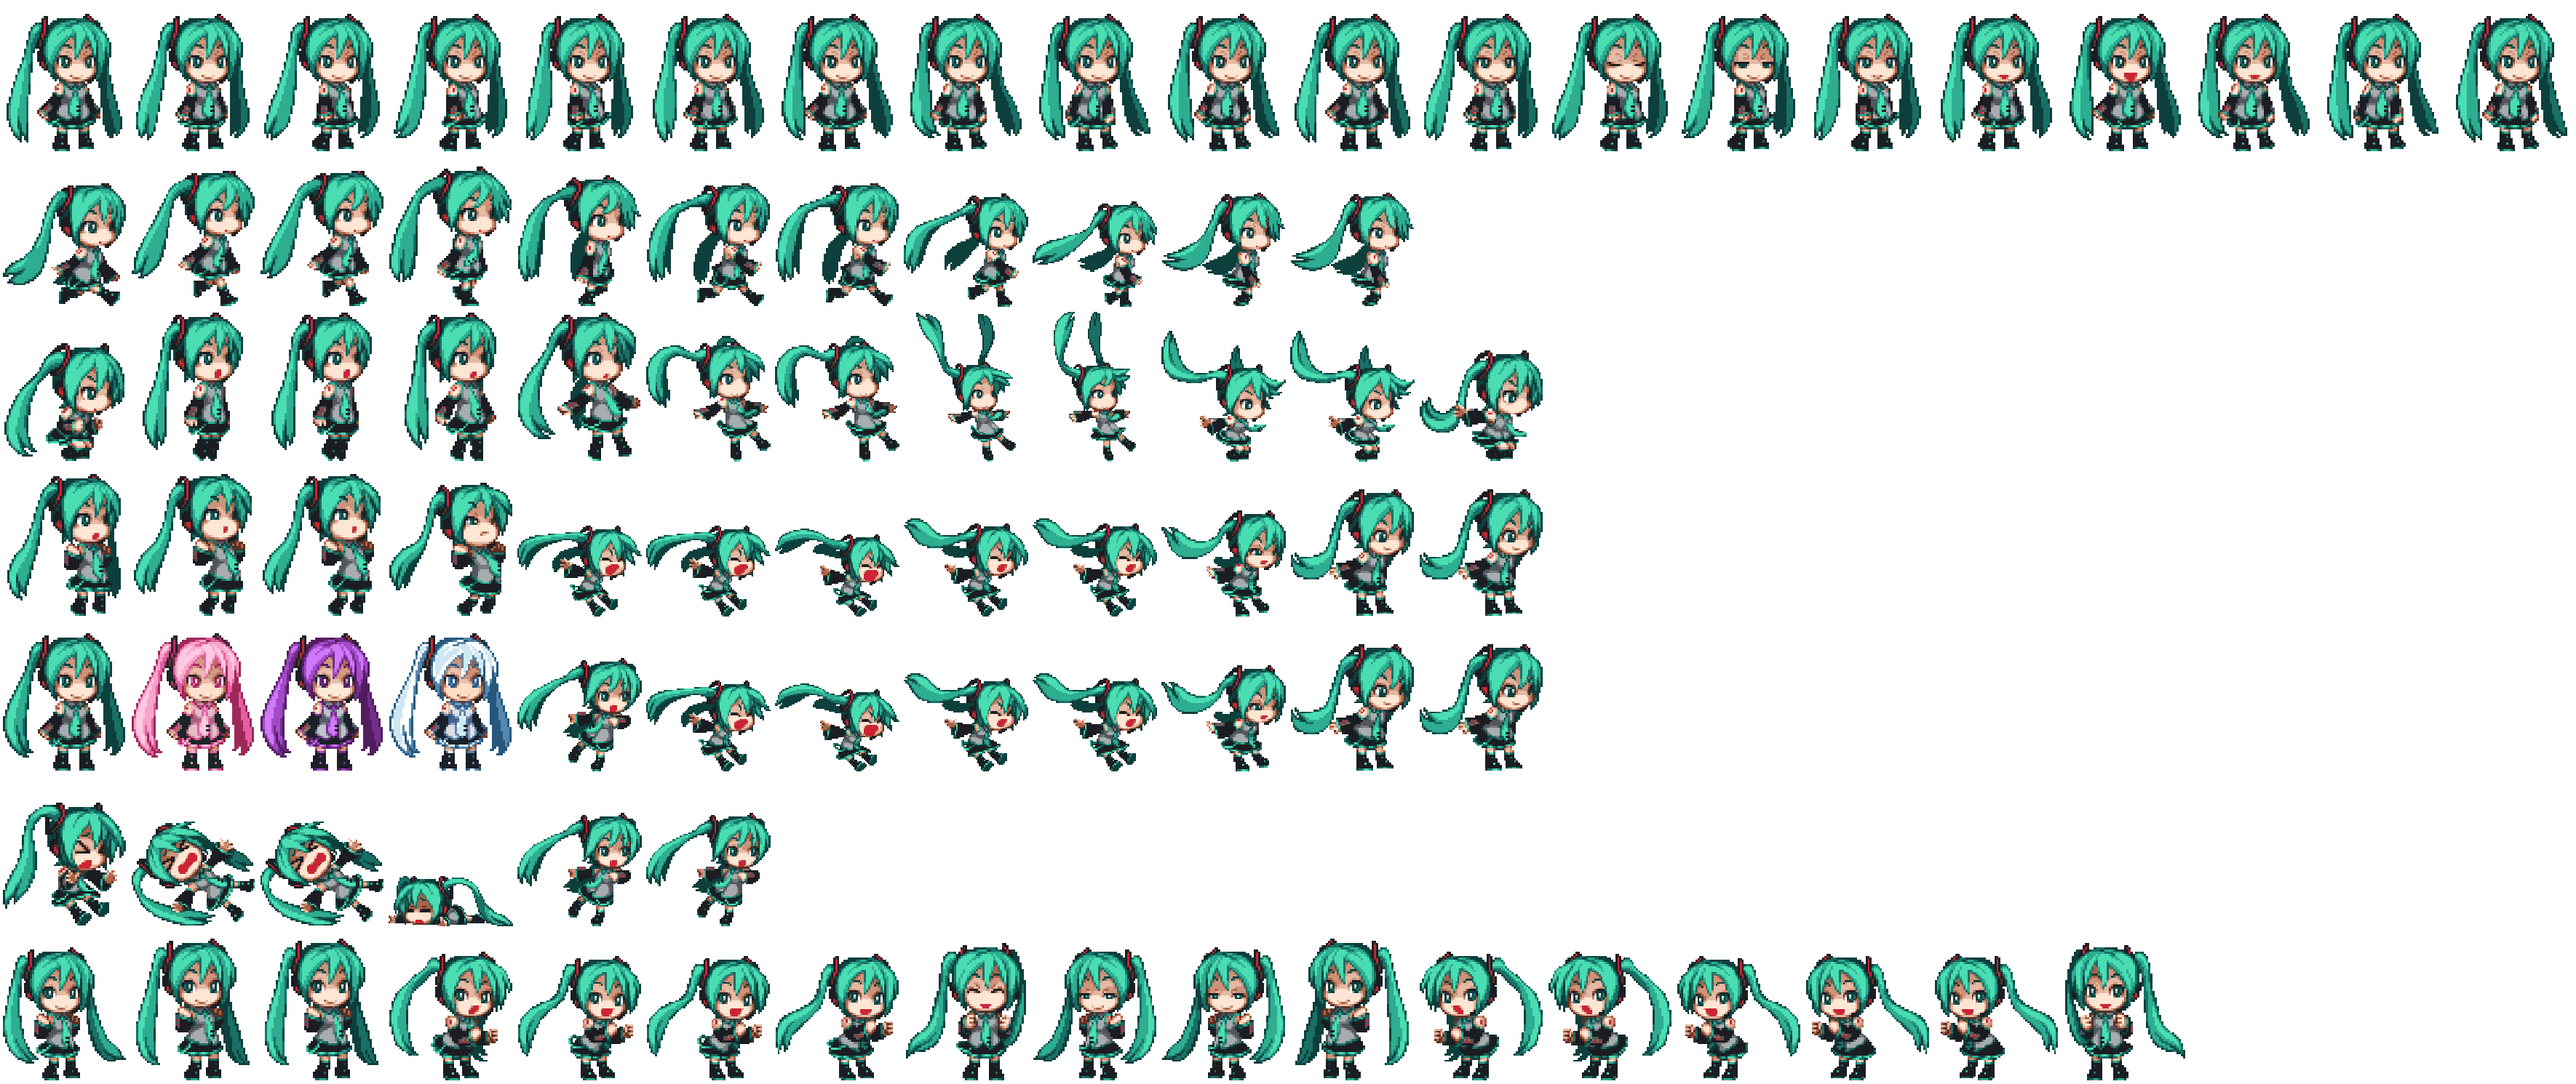
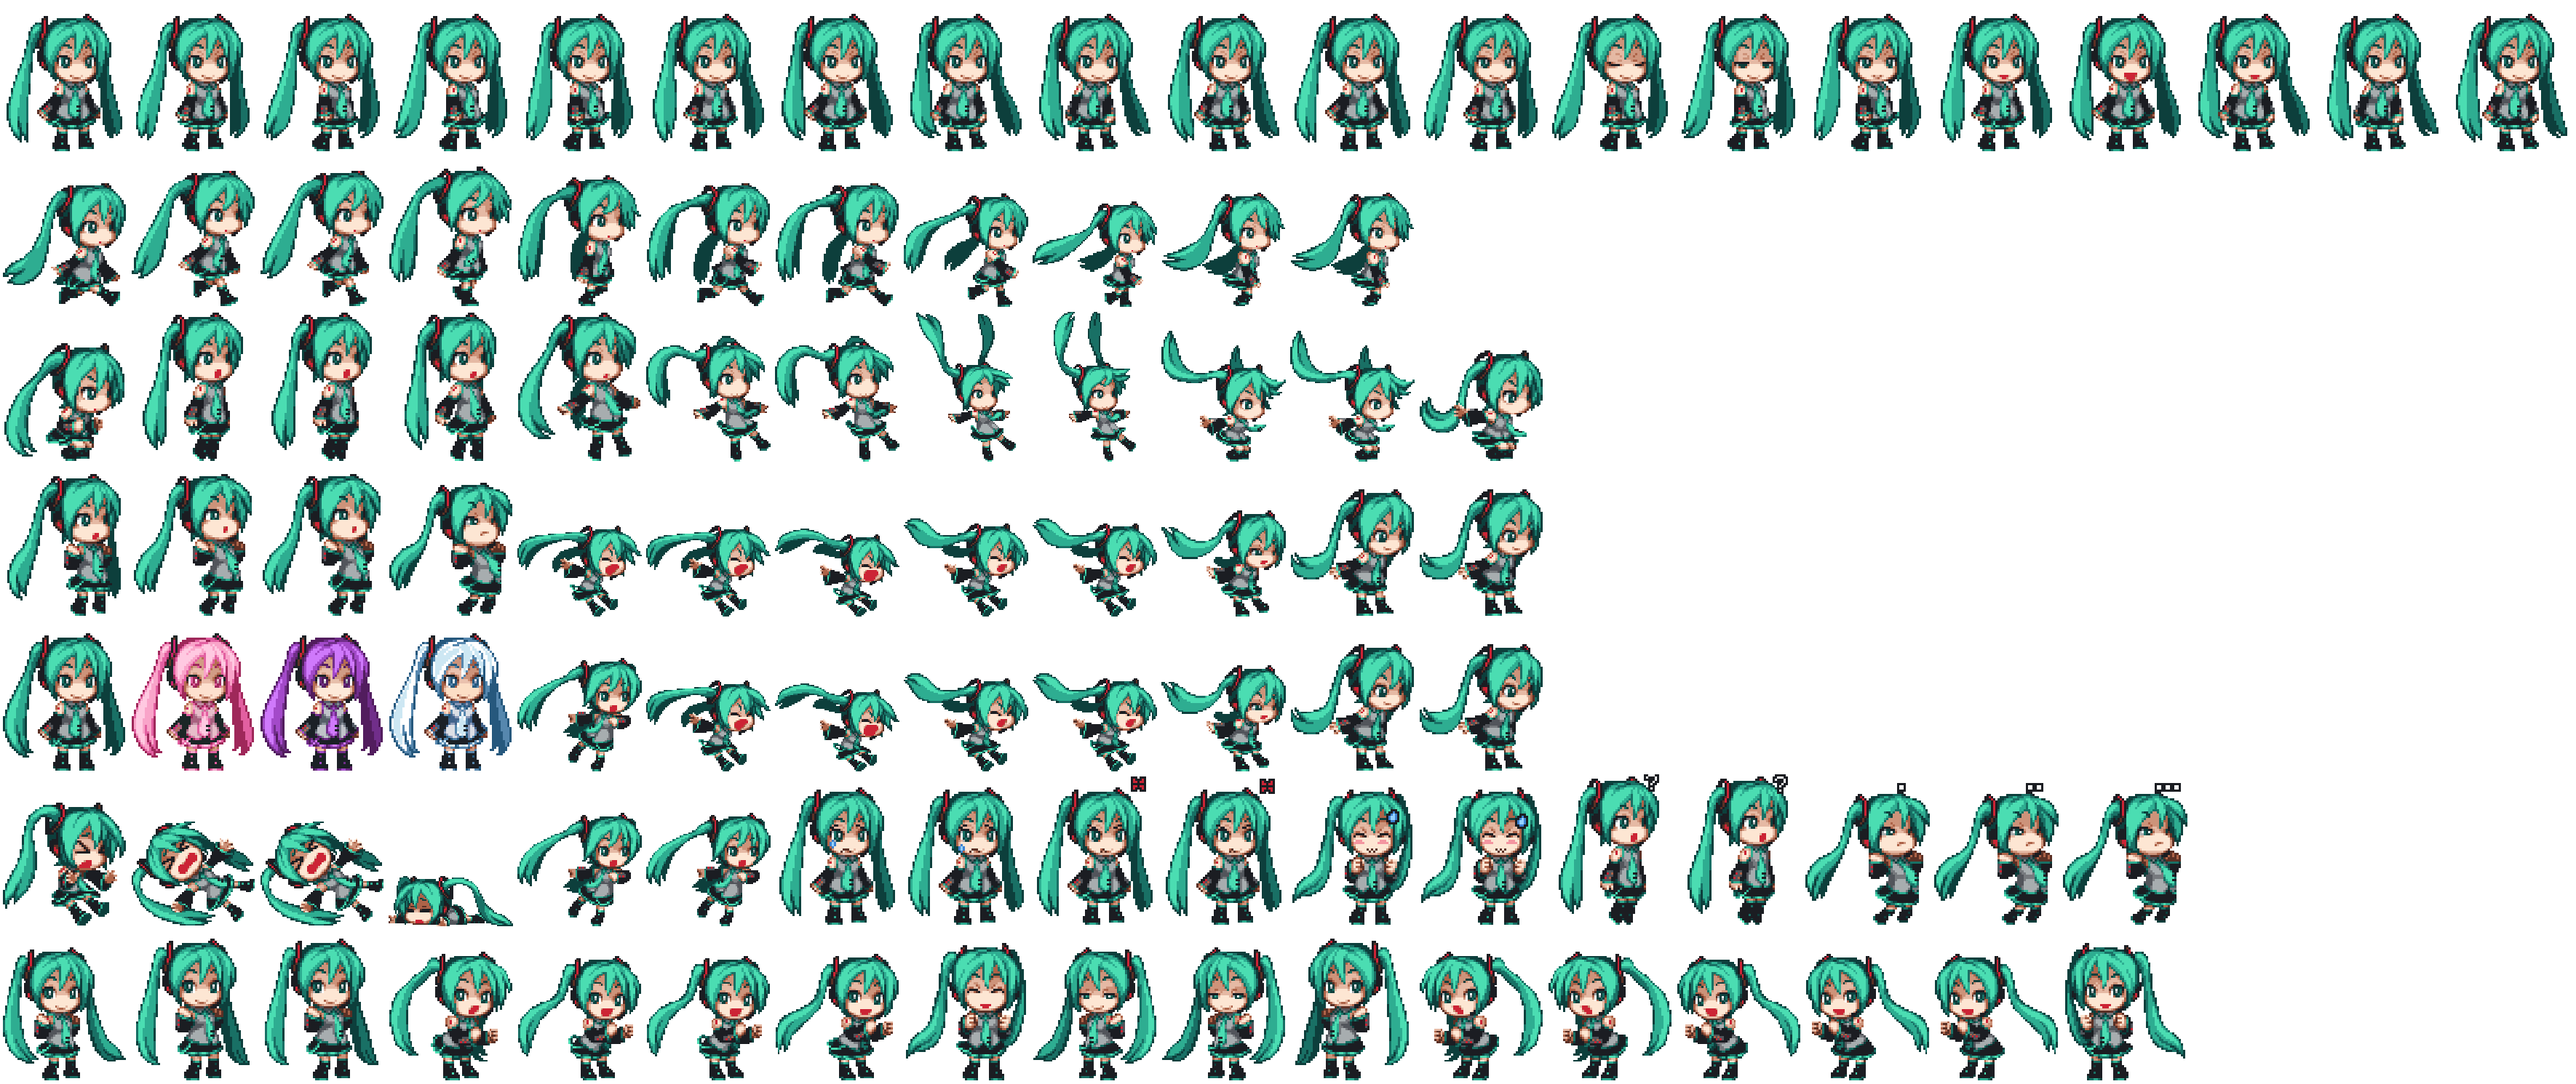
feat: Miku sprite frames for sad, annoyed, embarrassed, confused, thinking
Five of the eight emotions borrowed frames from other animations that
show a different feeling: sad used dance frames with a smile, annoyed
the "hurt" knockback pose, embarrassed a happy celebrate pose, confused
a jump frame, and thinking had a single frame.

tools/make_emote_frames.py builds 11 new frames from Miku's own frames
by editing a few face pixels (eyebrows, mouth, blush) and adding small
emote marks (tear, anger mark, sweat drop, "?", "..."), and writes them
into the empty cells 106-116 of the sheet. Original frames are not
touched and the script can be re-run (--preview renders without writing).

- sad 106-107: worried brows, frown, tear sliding down
- annoyed 108-109: angry brows, pout, bobbing anger mark
- embarrassed 110-111: blush, wavy mouth, sliding sweat drop
- confused 112-113: "o" mouth with a bobbing "?"
- thinking 114-116: "." -> ".." -> "..."

config.MIKU_EMOTION_FRAMES points at the new frames. New tests check
that the sheet matches the generator output and that config uses it.
README notes that the new frames share the sheet's unrecorded origin.

pytest: 184 passed. Checked in the GUI: a sad message shows the new
sad frame.

Changed region(s): [[0.2797, 0.7096, 0.8701, 0.8638]]

diff --git a/tools/make_emote_frames.py b/tools/make_emote_frames.py
@@ -1,0 +1,177 @@
+"""
+Buat frame emosi Miku yang belum punya gambar sendiri (sad, annoyed, embarrassed,
+confused, thinking) dari frame yang sudah ada di sprite sheet: ekspresi wajah diubah
+beberapa piksel, lalu diberi tanda emote (air mata, 💢, ?, ..., keringat, rona pipi).
+
+Hasilnya ditulis ke sel kosong di sheet (baris 6, indeks NEW_CELLS). Frame dasar
+tidak diubah, jadi script ini aman dijalankan ulang.
+
+    python tools/make_emote_frames.py --preview preview.png   # lihat dulu, sheet tidak diubah
+    python tools/make_emote_frames.py                         # tulis ke sheet
+
+Satuan koordinat: "piksel seni". Sheet di-upscale 3x, jadi frame 177x213 = 59x71 piksel seni.
+"""
+
+import argparse
+import sys
+from pathlib import Path
+
+from PIL import Image, ImageDraw
+
+ROOT = Path(__file__).resolve().parent.parent
+SHEET = ROOT / "assets" / "avatar" / "miku_smart_sheet.png"
+FRAME_W, FRAME_H, COLS, SCALE = 177, 213, 20, 3
+
+# Warna dari palet sheet, ditambah biru air mata dan merah muda rona pipi
+DARK = (27, 29, 34, 255)
+BROWN = (91, 48, 37, 255)
+RED = (204, 36, 53, 255)
+WHITE = (255, 255, 255, 255)
+SKIN = (253, 230, 211, 255)
+TEAR = (150, 210, 255, 255)
+TEAR_EDGE = (60, 130, 210, 255)
+BLUSH = (244, 150, 160, 255)
+
+# Pola piksel: huruf -> warna, "." = tidak digambar
+PATTERNS = {
+    "frown": ([".BBB.",
+               "B...B"], {"B": BROWN}),
+    "pout": ([".B.",
+              "B.B"], {"B": BROWN}),
+    "brow_sad_l": (["..DD",
+                    "DD.."], {"D": DARK}),
+    "brow_sad_r": (["DD..",
+                    "..DD"], {"D": DARK}),
+    "brow_angry_l": (["DD..",
+                      "..DD"], {"D": DARK}),
+    "brow_angry_r": (["..DD",
+                      "DD.."], {"D": DARK}),
+    "tear": ([".E.",
+              "ELE",
+              "ELE",
+              ".E."], {"E": TEAR_EDGE, "L": TEAR}),
+    "sweat": (["..E.",
+               ".ELE",
+               "ELLE",
+               "ELLE",
+               ".EE."], {"E": TEAR_EDGE, "L": TEAR}),
+    "blush": ([".PPP.",
+               "PPPPP"], {"P": BLUSH}),
+    # Menutup senyum lebar frame 127 (merah di x 36-40 / 37-39) dengan warna kulit
+    "smile_erase": (["SSSSS",
+                     ".SSS."], {"S": SKIN}),
+    "wavy_mouth": (["B.B.B",
+                    ".B.B."], {"B": BROWN}),
+    "anger": (["R...R",
+               "RR.RR",
+               ".....",
+               "RR.RR",
+               "R...R"], {"R": RED}),
+    "question": ([".WWW.",
+                  "W...W",
+                  "....W",
+                  "...W.",
+                  "..W..",
+                  ".....",
+                  "..W.."], {"W": WHITE}),
+    "dot": (["WW",
+             "WW"], {"W": WHITE}),
+}
+
+# Tanda di luar wajah diberi garis tepi gelap supaya terbaca di latar apa pun
+OUTLINED = {"question", "dot", "anger", "sweat"}
+
+# Frame baru: (nama emosi, frame dasar, [(pola, x, y), ...])
+NEW_FRAMES = [
+    ("sad", 0, [("brow_sad_l", 26, 23), ("brow_sad_r", 38, 23), ("frown", 31, 34), ("tear", 26, 30)]),
+    ("sad", 0, [("brow_sad_l", 26, 23), ("brow_sad_r", 38, 23), ("frown", 31, 34), ("tear", 26, 32)]),
+    ("annoyed", 0, [("brow_angry_l", 26, 23), ("brow_angry_r", 38, 23), ("pout", 32, 34), ("anger", 47, 2)]),
+    ("annoyed", 0, [("brow_angry_l", 26, 23), ("brow_angry_r", 38, 23), ("pout", 32, 34), ("anger", 47, 3)]),
+    ("embarrassed", 127, [("smile_erase", 36, 34), ("wavy_mouth", 36, 34),
+                          ("blush", 30, 30), ("blush", 41, 30), ("sweat", 46, 17)]),
+    ("embarrassed", 127, [("smile_erase", 36, 34), ("wavy_mouth", 36, 34),
+                          ("blush", 30, 30), ("blush", 41, 30), ("sweat", 46, 19)]),
+    ("confused", 41, [("question", 46, 0)]),
+    ("confused", 41, [("question", 46, 1)]),
+    ("thinking", 63, [("dot", 44, 5)]),
+    ("thinking", 63, [("dot", 44, 5), ("dot", 48, 5)]),
+    ("thinking", 63, [("dot", 44, 5), ("dot", 48, 5), ("dot", 52, 5)]),
+]
+# Sel kosong di baris 6 sheet (106-119 kosong)
+NEW_CELLS = list(range(106, 106 + len(NEW_FRAMES)))
+
+
+def emotion_frames() -> dict:
+    """Peta emosi -> indeks frame baru, untuk MIKU_EMOTION_FRAMES di config.py."""
+    result: dict = {}
+    for (name, _, _), cell in zip(NEW_FRAMES, NEW_CELLS):
+        result.setdefault(name, []).append(cell)
+    return result
+
+
+def _cell_box(index: int):
+    row, col = divmod(index, COLS)
+    return (col * FRAME_W, row * FRAME_H, (col + 1) * FRAME_W, (row + 1) * FRAME_H)
+
+
+def _stamp(art: Image.Image, name: str, x: int, y: int):
+    rows, colors = PATTERNS[name]
+    pixels = {(x + dx, y + dy): colors[ch]
+              for dy, line in enumerate(rows) for dx, ch in enumerate(line) if ch != "."}
+    px = art.load()
+    if name in OUTLINED:
+        for (sx, sy) in pixels:
+            for nx in range(sx - 1, sx + 2):
+                for ny in range(sy - 1, sy + 2):
+                    if (nx, ny) not in pixels and 0 <= nx < art.width and 0 <= ny < art.height:
+                        px[nx, ny] = DARK
+    for (sx, sy), color in pixels.items():
+        if 0 <= sx < art.width and 0 <= sy < art.height:
+            px[sx, sy] = color
+
+
+def build_frames(sheet: Image.Image) -> list:
+    frames = []
+    for _, base, stamps in NEW_FRAMES:
+        art = sheet.crop(_cell_box(base)).resize((FRAME_W // SCALE, FRAME_H // SCALE), Image.NEAREST)
+        for name, x, y in stamps:
+            _stamp(art, name, x, y)
+        frames.append(art.resize((FRAME_W, FRAME_H), Image.NEAREST))
+    return frames
+
+
+def write_preview(frames: list, out: Path):
+    zoom = 2
+    labels = [name for name, _, _ in NEW_FRAMES]
+    img = Image.new("RGB", (len(frames) * FRAME_W * zoom, FRAME_H * zoom + 24), (43, 43, 43))
+    draw = ImageDraw.Draw(img)
+    for k, (frame, label, cell) in enumerate(zip(frames, labels, NEW_CELLS)):
+        big = frame.resize((FRAME_W * zoom, FRAME_H * zoom), Image.NEAREST)
+        img.paste(big, (k * FRAME_W * zoom, 24), big)
+        draw.text((k * FRAME_W * zoom + 6, 6), f"{label} #{cell}", fill=(255, 255, 0))
+    img.save(out)
+
+
+def main() -> int:
+    parser = argparse.ArgumentParser(description=__doc__, formatter_class=argparse.RawDescriptionHelpFormatter)
+    parser.add_argument("--preview", type=Path, help="tulis gambar pratinjau, sheet tidak diubah")
+    args = parser.parse_args()
+
+    sheet = Image.open(SHEET).convert("RGBA")
+    frames = build_frames(sheet)
+    if args.preview:
+        write_preview(frames, args.preview)
+        print(f"Pratinjau: {args.preview}")
+        return 0
+
+    for frame, cell in zip(frames, NEW_CELLS):
+        box = _cell_box(cell)
+        sheet.paste(Image.new("RGBA", frame.size, (0, 0, 0, 0)), box)
+        sheet.paste(frame, box)
+    sheet.save(SHEET, optimize=True)
+    print(f"{len(frames)} frame ditulis ke {SHEET.name}: {emotion_frames()}")
+    return 0
+
+
+if __name__ == "__main__":
+    sys.exit(main())

diff --git a/tests/test_sprite_frames.py b/tests/test_sprite_frames.py
@@ -61,3 +61,29 @@ def test_every_emotion_maps_to_existing_animation():
     for emotion, animation in EMOTION_ANIMATIONS.items():
         assert animation in ANIMATIONS, f"{emotion} -> {animation}"
     assert set(config.MIKU_EMOTION_FRAMES) <= set(EMOTION_ANIMATIONS)
+
+
+# ── Frame emosi buatan tools/make_emote_frames.py ──
+
+sys.path.insert(0, str(ROOT / "tools"))
+import make_emote_frames  # noqa: E402
+
+
+def test_generated_emotions_are_used_by_config():
+    for emotion, frames in make_emote_frames.emotion_frames().items():
+        assert config.MIKU_EMOTION_FRAMES[emotion] == frames
+
+
+def test_sheet_matches_generator(sheet):
+    # Sheet dan script harus sejalan: ubah polanya di script, lalu jalankan ulang script
+    for frame, cell in zip(make_emote_frames.build_frames(sheet), make_emote_frames.NEW_CELLS):
+        row, col = divmod(cell, config.MIKU_SHEET_COLS)
+        box = (col * config.MIKU_FRAME_W, row * config.MIKU_FRAME_H,
+               (col + 1) * config.MIKU_FRAME_W, (row + 1) * config.MIKU_FRAME_H)
+        assert sheet.crop(box).tobytes() == frame.convert("RGBA").tobytes(), f"frame {cell}"
+
+
+def test_generator_only_uses_empty_cells_and_real_base_frames():
+    original_frames = {base for _, base, _ in make_emote_frames.NEW_FRAMES}
+    assert not original_frames & set(make_emote_frames.NEW_CELLS)
+    assert len(set(make_emote_frames.NEW_CELLS)) == len(make_emote_frames.NEW_FRAMES)

diff --git a/config.py b/config.py
@@ -33,15 +33,17 @@ MIKU_FRAME_H = 213
 MIKU_SHEET_COLS = 20
 
 # Frame per emosi, dipakai GUI dan avatar window. Semua indeks berisi gambar.
+# 106-116 dibuat oleh tools/make_emote_frames.py dari frame asli (sheet belum punya
+# gambar sedih, kesal, malu, bingung, atau berpikir yang beranimasi).
 MIKU_EMOTION_FRAMES: Dict[str, List[int]] = {
     "neutral": [0, 1, 2, 3, 4],
     "happy": [123, 124, 125, 126],
     "excited": [131, 132, 133, 134, 135],
-    "thinking": [63],
-    "confused": [41, 42, 43],
-    "sad": [128, 129],
-    "embarrassed": [127],
-    "annoyed": [100],
+    "thinking": [114, 115, 116],
+    "confused": [112, 113],
+    "sad": [106, 107],
+    "embarrassed": [110, 111],
+    "annoyed": [108, 109],
 }
 
 # RVC model directory (shared across versions)

diff --git a/core/avatar_window.py b/core/avatar_window.py
@@ -39,8 +39,9 @@ FUCHSIA = (255, 0, 128)
 ALPHA_THR = 80
 
 # Animation sequences (frame indices from sprite sheet).
-# Hanya frame yang berisi gambar; sel 31-39, 52-59, 72-79, 92-99, 106-119
-# kosong sehingga avatar akan menghilang jika dirujuk.
+# Hanya frame yang berisi gambar; sel 31-39, 52-59, 72-79, 92-99, 117-119
+# kosong sehingga avatar akan menghilang jika dirujuk (106-116: frame emosi buatan
+# tools/make_emote_frames.py).
 ANIMATIONS: Dict[str, List[int]] = {
     "idle_front": [0, 1, 2, 3, 4],
     "idle_side_r": [5, 6, 7, 8],

diff --git a/README.md b/README.md
@@ -316,7 +316,7 @@ Catatan aset (bukan nasihat hukum; dicek 25 Oktober 2026):
 | Aset | Status | Catatan |
 |---|---|---|
 | Karakter Hatsune Miku | [Piapro Character License](https://piapro.net/license) (PCL) atau CC BY-NC 3.0 untuk ilustrasi resmi Crypton | Hanya untuk penggunaan **non-komersial** (tanpa tujuan bisnis dan tanpa menerima bayaran). Penggunaan komersial butuh izin Crypton. Dilarang memakai karakter dalam konteks yang merusak nama baiknya (misalnya terlalu kasar atau seksual) |
-| Sprite maskot `assets/avatar/miku_smart_sheet.png` (juga `docs/images/`) | **Asal belum tercatat** | Masuk sejak commit pertama tanpa keterangan pembuat. Sprite turunan karakter tetap tunduk pada PCL, dan bila dibuat orang lain, hak ciptanya milik pembuatnya. Pembuat dan izinnya perlu dicatat di sini |
+| Sprite maskot `assets/avatar/miku_smart_sheet.png` (juga `docs/images/`) | **Asal belum tercatat** | Masuk sejak commit pertama tanpa keterangan pembuat. Sprite turunan karakter tetap tunduk pada PCL, dan bila dibuat orang lain, hak ciptanya milik pembuatnya. Pembuat dan izinnya perlu dicatat di sini. Frame 106-116 (sedih, kesal, malu, bingung, berpikir) adalah suntingan frame asli oleh `tools/make_emote_frames.py`, jadi asal-usulnya sama dengan sheet ini |
 | Model suara RVC | Tidak disertakan; disediakan sendiri oleh pengguna | Suara Miku berasal dari voicebank VOCALOID (sampel suara Saki Fujita) yang diatur EULA software Crypton, bukan PCL. Tidak ditemukan pernyataan resmi Crypton yang mengizinkan pelatihan model konversi suara dari voicebank tersebut. Perlakukan model RVC Miku sebagai untuk pemakaian pribadi saja, ikuti lisensi dari pembuat modelnya, dan jangan distribusikan |
 | `rvc-python` | MIT | Dipasang bila model RVC ada, tidak dibundel |
 | MeloTTS | MIT | Diunduh saat instalasi |
